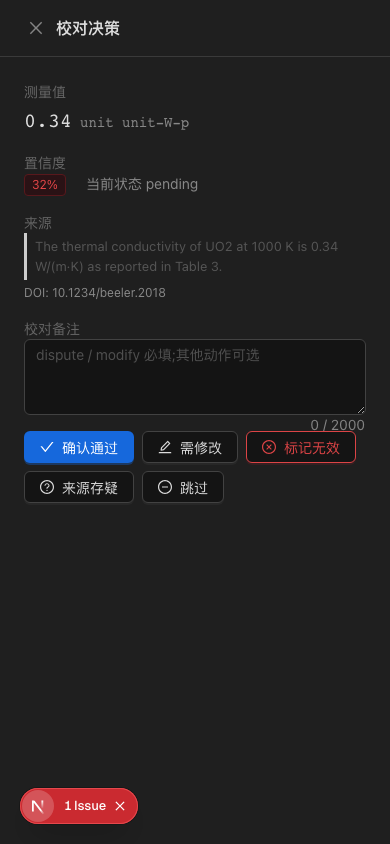
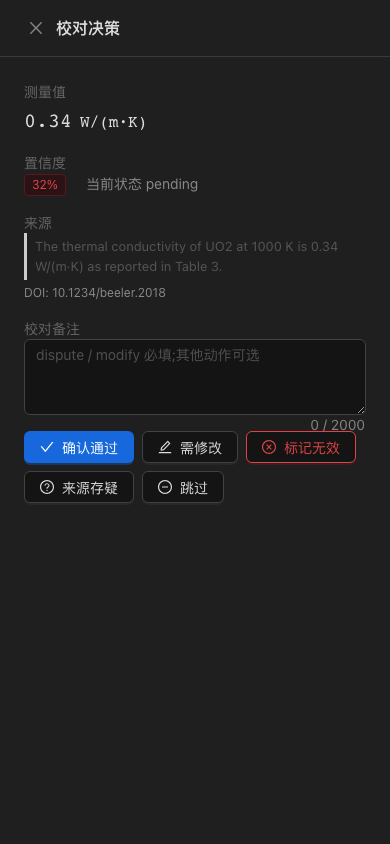
test(web): NFM-4560 单位 列 symbol 测试 + Playwright unit_symbol 断言
Round-2 LE follow-up (NFM-4560): mirror the 属性 round-1 fix on
单位 — backend + frontend 已经 ship (24b269c9b),现在补全测试覆盖
+ Playwright 截图回归断言,让 UXDesigner round-3 Visual-Truth
Gate 能直接验证 '单位 列显示真实符号,不出现 UUID 前缀'.

- ReviewQueueContent.test.tsx 新增 3 个场景:
  * 正常 symbol 渲染 (W/(m·K) / g/cm³)
  * legacy 回落到 unit_id.slice(0,8) (e.g. 'unit-leg')
  * symbol + unit_id 都为空时显示 —
- ReviewDrawer.test.tsx 新增 2 个场景:
  * 测量值行渲染 symbol 而非 'unit <uuid-prefix>' (修 round-2
    bug phrase 'unit unit-W-p')
  * legacy 回落到 'unit <short-id>' (spec §4.2 never silently
    lose provenance)
- nfm4554-review-queue-visual-qa.spec.ts:
  * MOCK_QUEUE 全部 6 行加 unit_symbol 字段
  * 新增 [data-testid='unit-symbol'] 断言: ≥6 个 symbol 出现,
    必须包含 W/(m·K) / Å / g/cm³ / K / eV
  * 'unit unit-' bug phrase 不出现回归保护
  * drawer 端 [data-testid='unit-symbol-drawer'] 断言 toHaveText('W/(m·K)')
- qa-artifacts/*.png: 重跑 desktop + mobile + drawer 截图,
  round-2 提交 24b269c9b 后真实页面状态

Changed region(s): [[0.0308, 0.9242, 0.3692, 0.9858], [0.2154, 0.1232, 0.4923, 0.154]]

diff --git a/apps/web/e2e/nfm4554-review-queue-visual-qa.spec.ts b/apps/web/e2e/nfm4554-review-queue-visual-qa.spec.ts
@@ -37,6 +37,7 @@ const MOCK_QUEUE = {
         item_data: {
           value_scalar: 0.34,
           unit_id: "unit-W-per-mK",
+          unit_symbol: "W/(m·K)",
           notes: null,
           property_type_id: "pt-thermal-conductivity",
           property_type_name: "thermal conductivity",
@@ -58,6 +59,7 @@ const MOCK_QUEUE = {
         item_data: {
           value_scalar: 4.95,
           unit_id: "unit-angstrom",
+          unit_symbol: "Å",
           notes: null,
           property_type_id: "pt-lattice-a",
           property_type_name: "lattice parameter a",
@@ -79,6 +81,7 @@ const MOCK_QUEUE = {
         item_data: {
           value_scalar: 0.05,
           unit_id: "unit-g-per-cm3",
+          unit_symbol: "g/cm³",
           notes: null,
           property_type_id: "pt-density",
           property_type_name: "density",
@@ -105,6 +108,7 @@ const MOCK_QUEUE = {
         item_data: {
           value_scalar: 1200,
           unit_id: "unit-K",
+          unit_symbol: "K",
           notes: null,
           property_type_id: "pt-melting-T",
           property_type_name: "melting temperature",
@@ -126,6 +130,7 @@ const MOCK_QUEUE = {
         item_data: {
           value_scalar: 5.4,
           unit_id: "unit-eV",
+          unit_symbol: "eV",
           notes: null,
           property_type_id: "pt-cohesive-E",
           property_type_name: "cohesive energy",
@@ -147,6 +152,7 @@ const MOCK_QUEUE = {
         item_data: {
           value_scalar: 10.97,
           unit_id: "unit-g-per-cm3",
+          unit_symbol: "g/cm³",
           notes: null,
           property_type_id: "pt-theoretical-density",
           property_type_name: "theoretical density",
@@ -281,6 +287,25 @@ for (const vp of viewports) {
       "title",
       /density 0\.05 g\/cm³/,
     )
+    // NFM-4560 — 单位 column shows resolved unit symbols (e.g.
+    // "W/(m·K)", "Å", "g/cm³", "K", "eV"), NOT row-UUID prefixes.
+    // Match via the data-testid so symbol-looking value text (0.34)
+    // doesn't accidentally satisfy the assertion.
+    const unitSymbols = page.locator("[data-testid='unit-symbol']")
+    await expect(unitSymbols.first()).toBeVisible({ timeout: 5_000 })
+    const symbolTexts = await unitSymbols.allTextContents()
+    expect(symbolTexts.length).toBeGreaterThanOrEqual(6)
+    for (const expected of [
+      "W/(m·K)",
+      "Å",
+      "g/cm³",
+      "K",
+      "eV",
+    ]) {
+      expect(symbolTexts).toContain(expected)
+    }
+    // Sanity: the previous bug phrase "unit unit-" must NOT appear.
+    expect(await page.locator("body").innerText()).not.toMatch(/unit unit-/)
 
     await page.screenshot({
       path: `qa-artifacts/nfm-4554-${vp.name}-queue.png`,
@@ -301,6 +326,12 @@ for (const vp of viewports) {
     await expect(page.getByTestId("review-action-invalid")).toBeVisible()
     await expect(page.getByTestId("review-action-dispute")).toBeVisible()
     await expect(page.getByTestId("review-action-skip")).toBeVisible()
+    // NFM-4560 — 测量值 row in the drawer shows the resolved symbol
+    // next to the value (e.g. "0.34 W/(m·K)"), not "0.34 unit unit-W-p".
+    await expect(page.getByTestId("unit-symbol-drawer")).toHaveText(
+      "W/(m·K)",
+      { timeout: 5_000 },
+    )
     // Give Ant Drawer time to finish its open animation/portal mount
     await page.waitForTimeout(800)
     // Confirm drawer panel is actually in the viewport bounds

diff --git a/apps/web/src/components/admin/review-queue/ReviewQueueContent.test.tsx b/apps/web/src/components/admin/review-queue/ReviewQueueContent.test.tsx
@@ -385,4 +385,50 @@ describe("ReviewQueueContent — Layout A", () => {
     const table = scrollWrap.querySelector(".ant-table")
     expect(table).toBeInTheDocument()
   })
+
+  // NFM-4560 — Visual-Truth Gate round-2: 单位 column shows the real
+  // unit symbol (e.g. "W/(m·K)") instead of a row-UUID prefix.
+  it("renders the resolved unit symbol in the 单位 column", async () => {
+    mockedFetch.mockResolvedValueOnce({
+      items: [lowRow, highRow],
+      total: 2,
+      page: 1,
+      pages: 1,
+    })
+    renderWithQuery(<ReviewQueueContent />)
+    await waitFor(() => {
+      const symbols = screen.getAllByTestId("unit-symbol")
+      expect(symbols[0]).toHaveTextContent("W/(m·K)")
+      expect(symbols[1]).toHaveTextContent("g/cm³")
+    })
+  })
+
+  it("falls back to a short unitId prefix when unitSymbol is missing (legacy rows)", async () => {
+    const legacyRow = { ...lowRow, unitSymbol: null, unitId: "legacy-unit-aabbccdd" }
+    mockedFetch.mockResolvedValueOnce({
+      items: [legacyRow],
+      total: 1,
+      page: 1,
+      pages: 1,
+    })
+    renderWithQuery(<ReviewQueueContent />)
+    await waitFor(() => {
+      const fallback = screen.getByTestId("unit-fallback")
+      expect(fallback).toHaveTextContent("legacy-u")
+    })
+  })
+
+  it("renders an em-dash placeholder when both unitSymbol and unitId are null", async () => {
+    const emptyRow = { ...lowRow, unitSymbol: null, unitId: null }
+    mockedFetch.mockResolvedValueOnce({
+      items: [emptyRow],
+      total: 1,
+      page: 1,
+      pages: 1,
+    })
+    renderWithQuery(<ReviewQueueContent />)
+    await waitFor(() => {
+      expect(screen.getByTestId("unit-empty")).toHaveTextContent("—")
+    })
+  })
 })

diff --git a/apps/web/src/components/admin/review-queue/ReviewDrawer.test.tsx b/apps/web/src/components/admin/review-queue/ReviewDrawer.test.tsx
@@ -180,6 +180,43 @@ describe("ReviewDrawer", () => {
     )
     expect(screen.getByText(/键长 0\.3Å 低于有效域下限/)).toBeInTheDocument()
   })
+
+  // NFM-4560 — Visual-Truth Gate round-2: 测量值 row shows the real
+  // unit symbol next to the value instead of a duplicate "unit <prefix>"
+  // word salad.
+  it("renders the resolved unit symbol next to the measurement value", () => {
+    render(
+      <ReviewDrawer
+        item={item}
+        open={true}
+        onClose={noop}
+        onDecided={noop}
+      />,
+    )
+    const drawerUnit = screen.getByTestId("unit-symbol-drawer")
+    expect(drawerUnit).toHaveTextContent("W/(m·K)")
+    // Sanity: the previous bug phrase "unit unit-W-p" must not appear
+    expect(screen.queryByText(/unit unit-/)).not.toBeInTheDocument()
+  })
+
+  it("falls back to a short unitId prefix in the drawer when unitSymbol is missing (legacy rows)", () => {
+    const legacyItem = {
+      ...item,
+      unitSymbol: null,
+      unitId: "legacy-unit-aabbccdd",
+    }
+    render(
+      <ReviewDrawer
+        item={legacyItem}
+        open={true}
+        onClose={noop}
+        onDecided={noop}
+      />,
+    )
+    // Drawer keeps the legacy "unit <prefix>" suffix (per spec §4.2
+    // — never silently lose provenance).
+    expect(screen.getByText(/unit legacy-u/)).toBeInTheDocument()
+  })
 })
 
 describe("NOTE_REQUIRED_ACTIONS (transitional 6-state mapping)", () => {
